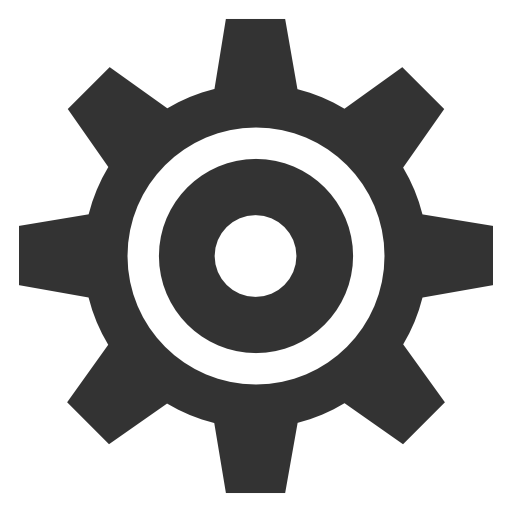
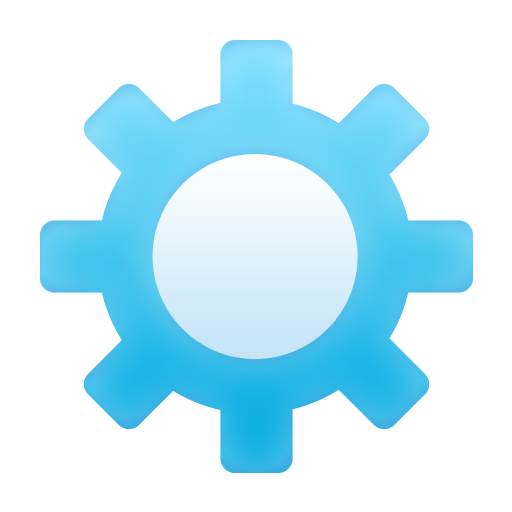
Add dark theme, and remove useless radiobutton
remove radioButton with value ("перемещение") because its useless all moving without it. Also add move all nodes if there isn't chose node.
also update png

diff --git a/src/main/kotlin/Main.kt b/src/main/kotlin/Main.kt
@@ -1,3 +1,4 @@
+import androidx.compose.foundation.BorderStroke
 import androidx.compose.foundation.Canvas
 import androidx.compose.foundation.Image
 import androidx.compose.foundation.background
@@ -8,10 +9,14 @@ import androidx.compose.material.*
 import androidx.compose.runtime.*
 import androidx.compose.ui.Alignment
 import androidx.compose.ui.Modifier
+import androidx.compose.ui.draw.shadow
 import androidx.compose.ui.geometry.Offset
 import androidx.compose.ui.graphics.Color
 import androidx.compose.ui.graphics.drawscope.Fill
 import androidx.compose.ui.graphics.drawscope.Stroke
+import androidx.compose.ui.input.key.isCtrlPressed
+import androidx.compose.ui.input.key.key
+import androidx.compose.ui.input.key.onPreviewKeyEvent
 import androidx.compose.ui.input.pointer.pointerInput
 import androidx.compose.ui.input.pointer.positionChange
 import androidx.compose.ui.layout.onSizeChanged
@@ -24,6 +29,7 @@ import androidx.compose.ui.window.*
 import kotlin.math.pow
 import kotlin.math.sqrt
 import kotlin.random.Random
+import androidx.compose.ui.input.key.Key
 
 //function to find in Map key by the value
 fun findInMap(dict: MutableMap<Int, Pair<Float, Float>>, circleRadius: Dp, offset: Offset): Int? {
@@ -36,6 +42,8 @@ fun findInMap(dict: MutableMap<Int, Pair<Float, Float>>, circleRadius: Dp, offse
     return null
 }
 
+data class Action(val type: String, val data: Any?)
+
 @Composable
 fun app() {
     val windowState = rememberWindowState()
@@ -47,6 +55,7 @@ fun app() {
     var lines by remember { mutableStateOf(mutableMapOf<Pair<Int, Int>, Pair<Pair<Float, Float>, Pair<Float, Float>>>()) }
 
     var selectedCircle by remember { mutableStateOf<Int?>(null) }
+    var isDragging by remember { mutableStateOf(false) }
     var selectedCircleToMove by remember { mutableStateOf<Int?>(null) }
     var startConnectingPoint by remember { mutableStateOf<Int?>(null) }
     var endConnectingPoint by remember { mutableStateOf<Int?>(null) }
@@ -57,6 +66,23 @@ fun app() {
     var additionalOptionsGroup2 by remember { mutableStateOf(false) }
     var additionalOptionsGroup3 by remember { mutableStateOf(false) }
     var openSettings by remember { mutableStateOf(false) }
+    var switchState by remember { mutableStateOf(false) }
+    var colorStates by remember { mutableStateOf(mutableListOf(Color.White, Color.Red, Color.Blue, Color.Gray, Color.Black)) }
+    if (switchState){
+        colorStates[0] = Color.Black
+        colorStates[1] = Color.Red
+        colorStates[2] = Color.Yellow
+        colorStates[3] = Color.LightGray
+        colorStates[4] = Color.White
+    } else {
+        colorStates[0] = Color.White
+        colorStates[1] = Color.Red
+        colorStates[2] = Color.Blue
+        colorStates[3] = Color.Gray
+        colorStates[4] = Color.Black
+    }
+
+    val actionStack = remember { mutableStateListOf<Action>() }
 
     var selectedOption by remember { mutableStateOf(1) }
     var nodeCounter by remember { mutableStateOf(0) }
@@ -65,8 +91,9 @@ fun app() {
         Row(
             modifier = Modifier
                 .fillMaxWidth()
+                .background(colorStates[0])
                 .padding(8.dp),
-            horizontalArrangement = Arrangement.SpaceEvenly
+            horizontalArrangement = Arrangement.Start
         ) {
             IconButton(onClick = {
                 expanded = true
@@ -84,6 +111,10 @@ fun app() {
             DropdownMenu(
                 expanded = expanded,
                 onDismissRequest = { expanded = false },
+                modifier = Modifier.background(colorStates[0]).padding(1.dp).waterfallPadding().shadow(elevation = 4.dp,
+                    spotColor = colorStates[4],
+                    ambientColor = colorStates[0])
+
             ) {
                 DropdownMenuItem(onClick = {
                     println("Option 1 clicked")
@@ -91,7 +122,7 @@ fun app() {
                     additionalOptionsGroup2 = false
                     additionalOptionsGroup3 = false
                 }) {
-                    Text("Option 1")
+                    Text("Option 1", color=colorStates[4])
                 }
                 if (additionalOptionsGroup1) {
                     DropdownMenuItem(onClick = {
@@ -107,21 +138,21 @@ fun app() {
                         expanded = false
                         additionalOptionsGroup1 = false
                     }) {
-                        Text("Разложить граф")
+                        Text("Разложить граф", color=colorStates[4])
                     }
                     DropdownMenuItem(onClick = {
                         println("Additional Option 2 clicked")
                         expanded = false
                         additionalOptionsGroup1 = false
                     }) {
-                        Text("Additional Option 2")
+                        Text("Additional Option 2", color=colorStates[4])
                     }
                     DropdownMenuItem(onClick = {
                         println("Additional Option 3 clicked")
                         expanded = false
                         additionalOptionsGroup1 = false
                     }) {
-                        Text("Additional Option 3")
+                        Text("Additional Option 3", color=colorStates[4])
                     }
                 }
                 DropdownMenuItem(onClick = {
@@ -130,7 +161,7 @@ fun app() {
                     additionalOptionsGroup1 = false
                     additionalOptionsGroup3 = false
                 }) {
-                    Text("Option 2")
+                    Text("Option 2", color=colorStates[4])
                 }
                 if (additionalOptionsGroup2) {
                     DropdownMenuItem(onClick = {
@@ -138,21 +169,21 @@ fun app() {
                         expanded = false
                         additionalOptionsGroup2 = false
                     }) {
-                        Text("Additional Option 1")
+                        Text("Additional Option 1", color=colorStates[4])
                     }
                     DropdownMenuItem(onClick = {
                         println("Additional Option 2 clicked")
                         expanded = false
                         additionalOptionsGroup2 = false
                     }) {
-                        Text("Additional Option 2")
+                        Text("Additional Option 2", color=colorStates[4])
                     }
                     DropdownMenuItem(onClick = {
                         println("Additional Option 3 clicked")
                         expanded = false
                         additionalOptionsGroup2 = false
                     }) {
-                        Text("Additional Option 3")
+                        Text("Additional Option 3", color=colorStates[4])
                     }
                 }
                 DropdownMenuItem(onClick = {
@@ -161,7 +192,7 @@ fun app() {
                     additionalOptionsGroup1 = false
                     additionalOptionsGroup2 = false
                 }) {
-                    Text("Option 3")
+                    Text("Option 3", color=colorStates[4])
                 }
                 if (additionalOptionsGroup3) {
                     DropdownMenuItem(onClick = {
@@ -169,35 +200,46 @@ fun app() {
                         expanded = false
                         additionalOptionsGroup3 = false
                     }) {
-                        Text("Additional Option 1")
+                        Text("Additional Option 1", color=colorStates[4])
                     }
                     DropdownMenuItem(onClick = {
                         println("Additional Option 2 clicked")
                         expanded = false
                         additionalOptionsGroup3 = false
                     }) {
-                        Text("Additional Option 2")
+                        Text("Additional Option 2", color=colorStates[4])
                     }
                     DropdownMenuItem(onClick = {
                         println("Additional Option 3 clicked")
                         expanded = false
                         additionalOptionsGroup3 = false
                     }) {
-                        Text("Additional Option 3")
+                        Text("Additional Option 3", color=colorStates[4])
                     }
                 }
                 DropdownMenuItem(onClick = {
                     println("settings")
                     openSettings = true
                 }) {
-                    Text("settings")
+                    Text("settings", color=colorStates[4])
                 }
                 if (openSettings){
                     DialogWindow(onCloseRequest = { openSettings = false },
                         state = DialogState(position = WindowPosition(200.dp, 200.dp)),
                         content = {
-                            Box(modifier = Modifier.padding(16.dp).fillMaxSize(), contentAlignment = Alignment.Center) {
-                                Text("Всплывающее окно")
+                            Box(modifier = Modifier.padding(1.dp).fillMaxSize().background(colorStates[0]), contentAlignment = Alignment.Center) {
+                                Column {
+                                    Text("This is a popup window", color=colorStates[4])
+                                    Spacer(modifier = Modifier.height(16.dp))
+                                    Row(verticalAlignment = Alignment.CenterVertically) {
+                                        Text("Dark theme:", color=colorStates[4])
+                                        Spacer(modifier = Modifier.width(8.dp))
+                                        Switch(
+                                            checked = switchState,
+                                            onCheckedChange = { switchState = it }
+                                        )
+                                    }
+                                }
                             }
                         }
                     )
@@ -205,35 +247,77 @@ fun app() {
             }
             RadioButton(
                 selected = selectedOption == 1,
-                onClick = { selectedOption = 1 }
+                onClick = { selectedOption = 1 },
+                colors = RadioButtonDefaults.colors(
+                    unselectedColor = colorStates[4], // Цвет неактивного радиобаттона
+                    selectedColor = Color.Cyan // Цвет активного радиобаттона
+                )
             )
-            Text("Создать узлы", modifier = Modifier.align(Alignment.CenterVertically))
+            Text("Создать узлы", modifier = Modifier.align(Alignment.CenterVertically), color=colorStates[4])
 
             RadioButton(
                 selected = selectedOption == 2,
-                onClick = { selectedOption = 2 }
-            )
-            Text("Соединить узлы", modifier = Modifier.align(Alignment.CenterVertically))
+                onClick = { selectedOption = 2 },
+                colors = RadioButtonDefaults.colors(
+                    unselectedColor = colorStates[4], // Цвет неактивного радиобаттона
+                    selectedColor = Color.Cyan // Цвет активного радиобаттона
+                )
 
-            RadioButton(
-                selected = selectedOption == 3,
-                onClick = { selectedOption = 3 }
             )
-            Text("Перемещение", modifier = Modifier.align(Alignment.CenterVertically))
+            Text("Соединить узлы", modifier = Modifier.align(Alignment.CenterVertically), color=colorStates[4])
+
+//            RadioButton(
+//                selected = selectedOption == 3,
+//                onClick = { selectedOption = 3 },
+//                colors = RadioButtonDefaults.colors(
+//                    unselectedColor = colorStates[4], // Цвет неактивного радиобаттона
+//                    selectedColor = Color.Cyan // Цвет активного радиобаттона
+//                )
+//            )
+//            Text("Перемещение", modifier = Modifier.align(Alignment.CenterVertically), color=colorStates[4])
 
             RadioButton(
                 selected = selectedOption == 4,
-                onClick = { selectedOption = 4 }
+                onClick = { selectedOption = 4 },
+                colors = RadioButtonDefaults.colors(
+                    unselectedColor = colorStates[4], // Цвет неактивного радиобаттона
+                    selectedColor = Color.Cyan // Цвет активного радиобаттона
+                )
             )
-            Text("Редактировать", modifier = Modifier.align(Alignment.CenterVertically))
+            Text("Редактировать", modifier = Modifier.align(Alignment.CenterVertically), color=colorStates[4])
         }
         Box(modifier = Modifier
             .fillMaxSize()
-            .background(Color.White)
+            .background(colorStates[0])
+            .onPreviewKeyEvent {
+                println(it.key)
+                println(it.isCtrlPressed)
+                if (it.key == Key.Z && it.isCtrlPressed) {
+                    println(actionStack)
+                    if (actionStack.isNotEmpty()) {
+                        val lastAction = actionStack.removeLast()
+                        when (lastAction.type) {
+                            "addNode" -> {
+                                circles.remove(lastAction.data as Int)
+                                nodeCounter--
+                            }
+                            "connectNodes" -> {
+                                val (start, end) = lastAction.data as Pair<Int, Int>
+                                lines.remove(Pair(start, end))
+                            }
+                            // Добавьте обработку для других типов действий, если они есть
+                        }
+                    }
+                    true
+                } else {
+                    false
+                }
+            }
             .pointerInput(Unit) {
                 detectTapGestures(onTap = { offset ->
                     when (selectedOption) {
                         1 -> {
+                            actionStack.add(Action("addNode", nodeCounter))
                             circles = circles.toMutableMap().apply { this[nodeCounter] = Pair(offset.x, offset.y) }
                             nodeCounter += 1
                         }
@@ -250,6 +334,7 @@ fun app() {
                                             endConnectingPoint
                                         ) in lines)
                                     ) {
+                                        actionStack.add(Action("connectNodes", Pair(startConnectingPoint!!, endConnectingPoint!!)))
                                         lines = lines.toMutableMap().apply {
                                             this[Pair(startConnectingPoint!!, endConnectingPoint!!)] =
                                                 Pair(circles[startConnectingPoint]!!, circles[endConnectingPoint]!!)
@@ -269,9 +354,9 @@ fun app() {
                             selectedCircle = findInMap(circles, circleRadius, offset)
                         }
 
-                        3 -> {
-                            selectedCircleToMove = findInMap(circles, circleRadius, offset)
-                        }
+//                        3 -> {
+//                            selectedCircleToMove = findInMap(circles, circleRadius, offset)
+//                        }
                     }
                 })
             }.onSizeChanged { newSize ->
@@ -286,14 +371,29 @@ fun app() {
                 detectDragGestures(
                     onDragStart = { offset ->
                         selectedCircleToMove = findInMap(circles, circleRadius, offset)
+                        isDragging = selectedCircleToMove == null
                     },
                     onDragEnd = {
                         selectedCircleToMove = null
+                        isDragging = false
                     },
                     onDragCancel = {
                         selectedCircleToMove = null
+                        isDragging = false
                     },
                     onDrag = { change, dragAmount ->
+                        if (isDragging) {
+                            // Перемещаем все круги и линии
+                            circles = circles.mapValues { (_, value) ->
+                                Pair(value.first + dragAmount.x, value.second + dragAmount.y)
+                            } as MutableMap<Int, Pair<Float, Float>>
+                            lines = lines.mapValues { (_, value) ->
+                                Pair(
+                                    Pair(value.first.first + dragAmount.x, value.first.second + dragAmount.y),
+                                    Pair(value.second.first + dragAmount.x, value.second.second + dragAmount.y)
+                                )
+                            } as MutableMap<Pair<Int, Int>, Pair<Pair<Float, Float>, Pair<Float, Float>>>
+                        }
                         selectedCircleToMove?.let { circleId ->
                             val newX = circles[circleId]!!.first + dragAmount.x
                             val newY = circles[circleId]!!.second + dragAmount.y
@@ -325,7 +425,7 @@ fun app() {
             lines.forEach { (_, value) ->
                 Canvas(modifier = Modifier.align(Alignment.Center)) {
                     drawLine(
-                        color = Color.Gray,
+                        color = colorStates[3],
                         start = Offset(
                             value.first.first - windowWidth.value / 2,
                             value.first.second - windowHeight.value / 2
@@ -342,14 +442,14 @@ fun app() {
             circles.forEach { (key, value) ->
                 Canvas(modifier = Modifier.align(Alignment.Center)) {
                     drawCircle(
-                        color = Color.Red,
+                        color = colorStates[1],
                         radius = circleRadius.value,
                         center = Offset(value.first - windowWidth.value / 2, value.second - windowHeight.value / 2),
                         style = Fill
                     )
                     if (selectedCircle == key || selectedCircleToMove == key || startConnectingPoint == key) {
                         drawCircle(
-                            color = Color.Blue,
+                            color = colorStates[2],
                             radius = circleRadius.value + 1,
                             center = Offset(value.first - windowWidth.value / 2, value.second - windowHeight.value / 2),
                             style = Stroke(width = 2.dp.toPx())
@@ -363,8 +463,8 @@ fun app() {
                 DialogWindow(onCloseRequest = { selectedCircle = null },
                     state = DialogState(position = WindowPosition(Dp(circles[key]!!.first), Dp(circles[key]!!.second))),
                     content = {
-                        Box(modifier = Modifier.padding(16.dp).fillMaxSize(), contentAlignment = Alignment.Center) {
-                            Text("Всплывающее окно")
+                        Box(modifier = Modifier.padding(1.dp).fillMaxSize().background(colorStates[0]), contentAlignment = Alignment.Center) {
+                            Text("Всплывающее окно", color=colorStates[4])
                         }
                     }
                 )
